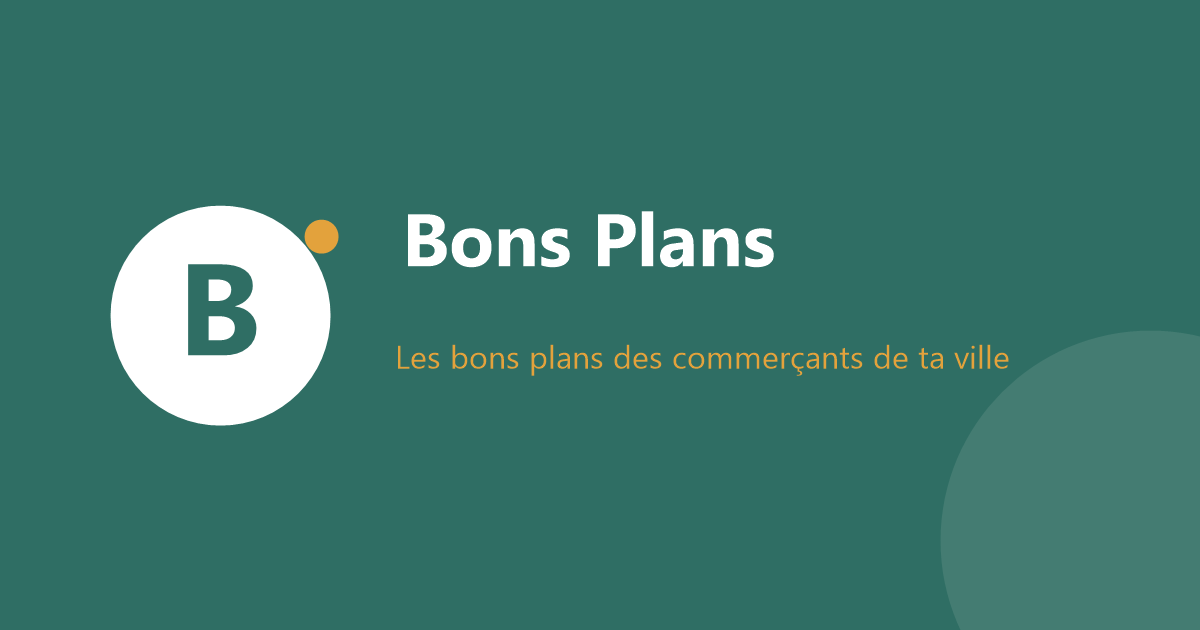
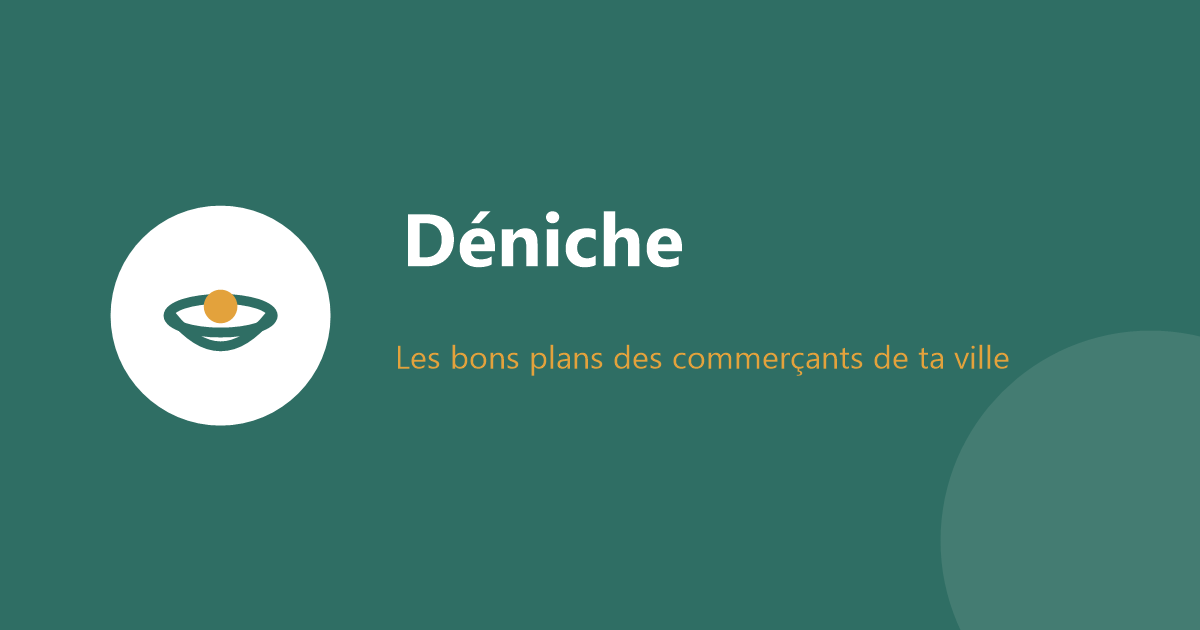
Renomme l'application en Déniche et corrige le blocage après résiliation
Bug de résiliation (migration à appliquer) : le déclencheur de quota se
déclenchait sur CHAQUE modification d'une annonce déjà publiée, pas
seulement à la publication. Un commerçant repassé au plan gratuit avec
plus de 3 annonces en ligne ne pouvait donc plus en modifier aucune —
corriger une faute de frappe levait « QUOTA_GRATUIT_ATTEINT ». Le quota
ne s'applique désormais qu'aux opérations qui augmentent réellement le
nombre d'annonces actives. Les annonces déjà en ligne y restent : on ne
retire pas ses offres de la vente dans son dos. Un bandeau explique la
situation au lieu de la laisser découvrir via une erreur.

Identité : nouveau nom dans tout le code, les métadonnées, le manifest
PWA et les pages légales, et nouveau symbole (un panier vu en
perspective avec sa trouvaille) décliné en icônes PWA, apple-touch-icon
et image de partage.

Changed region(s): [[0.3392, 0.3317, 0.6475, 0.4222], [0.1233, 0.4222, 0.2467, 0.573], [0.2467, 0.3317, 0.3083, 0.4222]]

diff --git a/app/cgu/page.tsx b/app/cgu/page.tsx
@@ -2,7 +2,7 @@ import { FileText } from "lucide-react";
 import { LegalShell, Fill } from "@/components/ui/LegalContent";
 
 export const metadata = {
-  title: "CGU & CGV — Bons Plans",
+  title: "CGU & CGV — Déniche",
 };
 
 export default function CguPage() {
@@ -15,7 +15,7 @@ export default function CguPage() {
       <h3>Article 1 — Objet</h3>
       <p>
         Les présentes CGU/CGV ont pour objet de définir les modalités d&apos;accès et d&apos;utilisation de la
-        plateforme <Fill>[NOM DE L&apos;APPLICATION]</Fill>, mettant en relation des commerçants locaux et des
+        plateforme Déniche, mettant en relation des commerçants locaux et des
         utilisateurs autour de bons plans et offres commerciales.
       </p>
 
@@ -24,7 +24,7 @@ export default function CguPage() {
         <li>L&apos;inscription est gratuite pour les utilisateurs (particuliers).</li>
         <li>L&apos;inscription commerçant nécessite un numéro SIRET valide, vérifié automatiquement lors de l&apos;inscription.</li>
         <li>
-          <Fill>[NOM DE L&apos;APPLICATION]</Fill> se réserve le droit de refuser ou suspendre tout compte ne
+          Déniche se réserve le droit de refuser ou suspendre tout compte ne
           respectant pas les présentes conditions.
         </li>
       </ul>
@@ -34,7 +34,7 @@ export default function CguPage() {
         <li>Le commerçant est seul responsable de l&apos;exactitude des informations publiées (prix, disponibilité, durée de validité de l&apos;offre).</li>
         <li>Les annonces trompeuses, frauduleuses, ou ne correspondant pas à une offre réelle sont interdites et peuvent entraîner la suspension du compte.</li>
         <li>
-          <Fill>[NOM DE L&apos;APPLICATION]</Fill> exerce une modération a posteriori : les contenus signalés
+          Déniche exerce une modération a posteriori : les contenus signalés
           sont examinés et peuvent être retirés sans préavis.
         </li>
       </ul>
@@ -50,7 +50,7 @@ export default function CguPage() {
         <li>Formule gratuite : jusqu&apos;à 3 bons plans actifs simultanément.</li>
         <li>Formule payante « Pro » : 14,90 € TTC/mois, sans engagement, résiliable à tout moment, bons plans illimités.</li>
         <li>
-          Le paiement est géré par Stripe. <Fill>[NOM DE L&apos;APPLICATION]</Fill> ne stocke aucune donnée
+          Le paiement est géré par Stripe. Déniche ne stocke aucune donnée
           bancaire.
         </li>
         <li>L&apos;abonnement se renouvelle automatiquement chaque mois sauf résiliation avant la date de renouvellement.</li>
@@ -64,7 +64,7 @@ export default function CguPage() {
 
       <h3>Article 6 — Responsabilité</h3>
       <p>
-        <Fill>[NOM DE L&apos;APPLICATION]</Fill> agit en tant qu&apos;intermédiaire technique et n&apos;est pas
+        Déniche agit en tant qu&apos;intermédiaire technique et n&apos;est pas
         partie aux transactions éventuelles entre commerçants et utilisateurs. La plateforme ne garantit pas la
         disponibilité effective des offres publiées par les commerçants.
       </p>
@@ -77,7 +77,7 @@ export default function CguPage() {
 
       <h3>Article 8 — Modification des CGU/CGV</h3>
       <p>
-        <Fill>[NOM DE L&apos;APPLICATION]</Fill> se réserve le droit de modifier les présentes conditions. Les
+        Déniche se réserve le droit de modifier les présentes conditions. Les
         utilisateurs seront informés par email en cas de modification substantielle.
       </p>
     </LegalShell>

diff --git a/components/QuotaDepasseBanner.tsx b/components/QuotaDepasseBanner.tsx
@@ -1,0 +1,36 @@
+import Link from "next/link";
+import { Crown, Info } from "lucide-react";
+
+const LIMITE_GRATUITE = 3;
+
+// Après une résiliation, un commerçant peut se retrouver avec plus d'annonces
+// en ligne que le plan gratuit n'en autorise. Ses offres restent publiées (on ne
+// les retire pas dans son dos), mais il ne peut plus en publier de nouvelles.
+// Sans ce bandeau, il découvrait la limite en se prenant une erreur au moment de
+// publier, sans comprendre pourquoi.
+export function QuotaDepasseBanner({ actifs }: { actifs: number }) {
+  if (actifs <= LIMITE_GRATUITE) return null;
+
+  return (
+    <div className="flex items-start gap-2.5 bg-marigold/10 border border-marigold/30 rounded-control px-4 py-3 mb-4">
+      <Info size={16} className="text-marigold shrink-0 mt-0.5" />
+      <div className="min-w-0">
+        <p className="text-sm text-ink leading-relaxed">
+          Tu as <strong>{actifs} bons plans en ligne</strong>, alors que le plan gratuit en autorise{" "}
+          {LIMITE_GRATUITE}.
+        </p>
+        <p className="text-sm text-ink/70 leading-relaxed mt-1">
+          Ils restent visibles et tu peux toujours les modifier. En revanche, tu ne pourras pas en
+          publier de nouveau tant que tu n&apos;es pas repassé sous la limite.
+        </p>
+        <Link
+          href="/tarifs"
+          className="press inline-flex items-center gap-1.5 mt-2.5 rounded-control bg-teal text-white px-3.5 py-2 text-sm font-semibold shadow-soft"
+        >
+          <Crown size={14} />
+          Repasser en Pro
+        </Link>
+      </div>
+    </div>
+  );
+}

diff --git a/app/mes-bons-plans/page.tsx b/app/mes-bons-plans/page.tsx
@@ -9,6 +9,7 @@ import { Skeleton } from "@/components/ui/Skeleton";
 import { EmptyState } from "@/components/ui/EmptyState";
 import { ErrorState } from "@/components/ui/ErrorState";
 import { Spinner } from "@/components/ui/Spinner";
+import { QuotaDepasseBanner } from "@/components/QuotaDepasseBanner";
 
 type Deal = {
   id: string;
@@ -35,6 +36,7 @@ export default function MesBonsPlansPage() {
   const router = useRouter();
   const [state, setState] = useState<"loading" | "error" | "ready">("loading");
   const [deals, setDeals] = useState<Deal[]>([]);
+  const [plan, setPlan] = useState<"gratuit" | "payant">("gratuit");
   const [deletingId, setDeletingId] = useState<string | null>(null);
   const [actionError, setActionError] = useState<string | null>(null);
 
@@ -50,7 +52,7 @@ export default function MesBonsPlansPage() {
 
     const { data: merchant, error: merchantError } = await supabase
       .from("merchant_profiles")
-      .select("id")
+      .select("id, plan")
       .eq("user_id", user.id)
       .maybeSingle();
 
@@ -77,6 +79,7 @@ export default function MesBonsPlansPage() {
       return;
     }
 
+    setPlan(merchant.plan as "gratuit" | "payant");
     setDeals(data ?? []);
     setState("ready");
   }, [router]);
@@ -167,6 +170,10 @@ export default function MesBonsPlansPage() {
               </Link>
             }
           />
+        )}
+
+        {state === "ready" && plan === "gratuit" && (
+          <QuotaDepasseBanner actifs={groups[0].items.length} />
         )}
 
         {actionError && <p className="text-tag text-sm mb-3">{actionError}</p>}

diff --git a/components/ui/Logo.tsx b/components/ui/Logo.tsx
@@ -1,0 +1,39 @@
+// Le symbole de Déniche : un nid (trois brins entrelacés) avec la trouvaille
+// au centre. « Dénicher », littéralement, c'est trouver le nid — le mark
+// raconte donc le nom plutôt que d'illustrer génériquement une étiquette.
+export function LogoMark({ size = 36, className = "" }: { size?: number; className?: string }) {
+  return (
+    <span
+      className={`inline-flex items-center justify-center rounded-full bg-teal shrink-0 ${className}`}
+      style={{ width: size, height: size }}
+      aria-hidden="true"
+    >
+      <svg width={size * 0.66} height={size * 0.66} viewBox="0 0 56 56" fill="none">
+        <path
+          d="M12 28 Q 28 48 44 28"
+          stroke="#EFF0E4"
+          strokeWidth="3.2"
+          strokeLinecap="round"
+          fill="none"
+        />
+        <ellipse cx="28" cy="28" rx="17" ry="5.5" stroke="#EFF0E4" strokeWidth="3.2" fill="none" />
+        <circle cx="28" cy="25" r="5.5" fill="#E3A23C" />
+      </svg>
+    </span>
+  );
+}
+
+export function LogoLockup({
+  size = 36,
+  textClassName = "text-ink text-lg",
+}: {
+  size?: number;
+  textClassName?: string;
+}) {
+  return (
+    <>
+      <LogoMark size={size} />
+      <span className={`font-extrabold tracking-tight ${textClassName}`}>Déniche</span>
+    </>
+  );
+}

diff --git a/components/Footer.tsx b/components/Footer.tsx
@@ -1,5 +1,5 @@
 import Link from "next/link";
-import { Tag } from "lucide-react";
+import { LogoLockup } from "@/components/ui/Logo";
 
 export function Footer() {
   const year = new Date().getFullYear();
@@ -9,10 +9,7 @@ export function Footer() {
       <div className="max-w-5xl mx-auto px-4 py-10">
         <div className="flex flex-col sm:flex-row sm:items-start sm:justify-between gap-8">
           <Link href="/" className="press flex items-center gap-2 w-fit">
-            <span className="w-8 h-8 rounded-full bg-teal flex items-center justify-center shrink-0">
-              <Tag size={15} className="text-white" strokeWidth={2.25} />
-            </span>
-            <span className="font-extrabold text-white text-base tracking-tight">Bons Plans</span>
+            <LogoLockup size={32} textClassName="text-white text-base" />
           </Link>
 
           <div className="grid grid-cols-2 gap-x-10 gap-y-6 text-sm">
@@ -56,7 +53,7 @@ export function Footer() {
         </div>
 
         <div className="border-t border-white/10 mt-8 pt-5">
-          <p className="text-xs text-white/60">© {year} Bons Plans. Tous droits réservés.</p>
+          <p className="text-xs text-white/60">© {year} Déniche. Tous droits réservés.</p>
         </div>
       </div>
     </footer>

diff --git a/app/mentions-legales/page.tsx b/app/mentions-legales/page.tsx
@@ -2,7 +2,7 @@ import { Scale } from "lucide-react";
 import { LegalShell, Fill } from "@/components/ui/LegalContent";
 
 export const metadata = {
-  title: "Mentions légales — Bons Plans",
+  title: "Mentions légales — Déniche",
 };
 
 export default function MentionsLegalesPage() {
@@ -14,7 +14,7 @@ export default function MentionsLegalesPage() {
     >
       <h3>Éditeur du site</h3>
       <p>
-        Le site <Fill>[NOM DE L&apos;APPLICATION]</Fill> est édité par :
+        Le site Déniche est édité par :
       </p>
       <ul>
         <li>
@@ -56,7 +56,7 @@ export default function MentionsLegalesPage() {
       <h3>Propriété intellectuelle</h3>
       <p>
         L&apos;ensemble des éléments du site (textes, logo, charte graphique, code) est la propriété de{" "}
-        <Fill>[NOM DE L&apos;APPLICATION / RAISON SOCIALE]</Fill>, sauf mention contraire. Toute reproduction
+        Déniche (<Fill>[RAISON SOCIALE]</Fill>), sauf mention contraire. Toute reproduction
         sans autorisation est interdite.
       </p>
 

diff --git a/components/ui/AuthShell.tsx b/components/ui/AuthShell.tsx
@@ -1,5 +1,5 @@
 import Link from "next/link";
-import { Tag } from "lucide-react";
+import { LogoLockup } from "@/components/ui/Logo";
 
 export function AuthShell({
   title,
@@ -14,10 +14,7 @@ export function AuthShell({
     <main className="min-h-screen flex flex-col items-center justify-center px-6 py-12 bg-paper">
       <div className="w-full max-w-sm">
         <Link href="/" className="press flex items-center justify-center gap-2 mb-8 w-fit mx-auto">
-          <span className="w-9 h-9 rounded-full bg-teal flex items-center justify-center">
-            <Tag size={17} className="text-white" strokeWidth={2.25} />
-          </span>
-          <span className="font-extrabold text-ink text-lg tracking-tight">Bons Plans</span>
+          <LogoLockup size={36} textClassName="text-ink text-lg" />
         </Link>
 
         <div className="bg-white rounded-card shadow-soft border border-ink/10 p-6 animate-fade-in">

diff --git a/app/layout.tsx b/app/layout.tsx
@@ -14,7 +14,7 @@ const bodyFont = Plus_Jakarta_Sans({
 });
 
 const siteUrl = "https://bons-plans-app.vercel.app";
-const title = "Bons Plans — les offres de ta ville";
+const title = "Déniche — les offres de ta ville";
 const description = "Retrouve les bons plans des commerçants près de chez toi.";
 
 export const metadata: Metadata = {
@@ -32,16 +32,16 @@ export const metadata: Metadata = {
   appleWebApp: {
     capable: true,
     statusBarStyle: "default",
-    title: "Bons Plans",
+    title: "Déniche",
   },
   openGraph: {
     title,
     description,
     url: siteUrl,
-    siteName: "Bons Plans",
+    siteName: "Déniche",
     locale: "fr_FR",
     type: "website",
-    images: [{ url: "/og-image.png", width: 1200, height: 630, alt: "Bons Plans" }],
+    images: [{ url: "/og-image.png", width: 1200, height: 630, alt: "Déniche" }],
   },
   twitter: {
     card: "summary_large_image",

diff --git a/app/confidentialite/page.tsx b/app/confidentialite/page.tsx
@@ -2,7 +2,7 @@ import { ShieldCheck } from "lucide-react";
 import { LegalShell, Fill } from "@/components/ui/LegalContent";
 
 export const metadata = {
-  title: "Politique de confidentialité — Bons Plans",
+  title: "Politique de confidentialité — Déniche",
 };
 
 export default function ConfidentialitePage() {
@@ -87,7 +87,7 @@ export default function ConfidentialitePage() {
       <h3>Destinataires des données</h3>
       <ul>
         <li>
-          <Fill>[NOM DE L&apos;APPLICATION]</Fill> (accès interne limité aux besoins de modération/support)
+          Déniche (accès interne limité aux besoins de modération/support)
         </li>
         <li>
           Supabase (hébergement base de données, Union Européenne ou clause de transfert adaptée — à vérifier

diff --git a/public/offline.html b/public/offline.html
@@ -3,7 +3,7 @@
   <head>
     <meta charset="utf-8" />
     <meta name="viewport" content="width=device-width, initial-scale=1" />
-    <title>Pas de connexion — Bons Plans</title>
+    <title>Pas de connexion — Déniche</title>
     <style>
       body {
         margin: 0;
@@ -72,7 +72,7 @@
         </svg>
       </div>
       <h1>Pas de connexion</h1>
-      <p>Impossible de charger Bons Plans pour le moment. Vérifie ta connexion internet et réessaie.</p>
+      <p>Impossible de charger Déniche pour le moment. Vérifie ta connexion internet et réessaie.</p>
       <button onclick="location.reload()">Réessayer</button>
     </div>
   </body>

diff --git a/app/not-found.tsx b/app/not-found.tsx
@@ -3,7 +3,7 @@ import { Compass } from "lucide-react";
 import { EmptyState } from "@/components/ui/EmptyState";
 
 export const metadata = {
-  title: "Page introuvable — Bons Plans",
+  title: "Page introuvable — Déniche",
 };
 
 export default function NotFound() {
